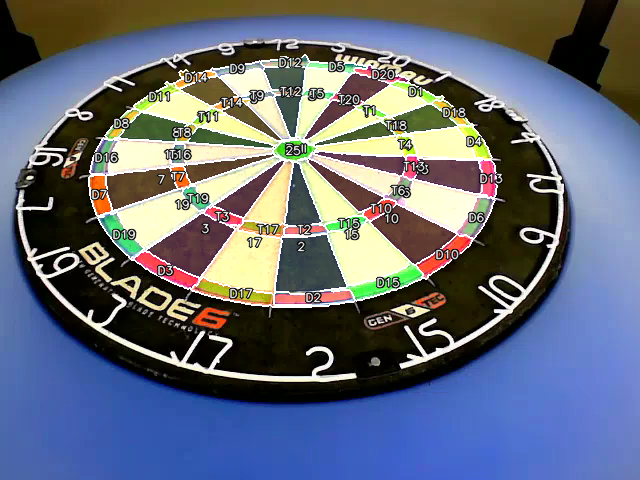
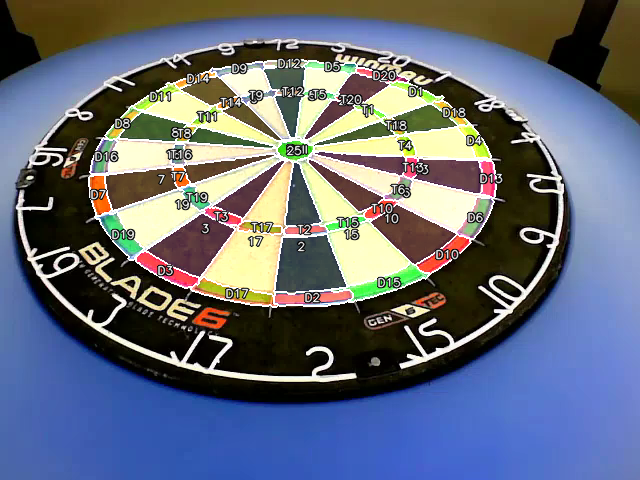
add: autotune + corrections -> 18/18 tests PASS

diff --git a/detection/tools/autocalib.cpp b/detection/tools/autocalib.cpp
@@ -46,8 +46,9 @@ struct State {
     int                     total_frames {0};
     AutoCalibrator::Options opt;
     AutoCalibrator::Result  result;
-    bool                    dirty {true};   // re-run detection
-    int                     view  {0};      // 0 overlay, 1 masks, 2 original
+    bool                    dirty    {true};   // re-run detection
+    int                     view     {0};      // 0 overlay, 1 masks, 2 original
+    bool                    tuning   {false};  // auto-tune in progress
 };
 
 void onTrackbarFrame(int pos, void* userdata)
@@ -97,7 +98,9 @@ cv::Mat render(const State& st)
                     cv::FONT_HERSHEY_SIMPLEX, 0.5, c, 1, cv::LINE_AA);
     };
 
-    if (r.ok) {
+    if (st.tuning) {
+        line(0, "AUTO-TUNE running...", {0, 200, 255});
+    } else if (r.ok) {
         line(0, "T:" + std::to_string(r.triples_found) + "/20  D:" +
                 std::to_string(r.doubles_found) + "/20  reproj:" +
                 cv::format("%.1fpx", r.mean_reproj_err_px),
@@ -109,7 +112,7 @@ cv::Mat render(const State& st)
     } else {
         line(0, "FAILED: " + r.error, {0, 0, 255});
     }
-    line(3, "a:rerun  o/p:rotate  v:view  r:reset  s:save  q:quit",
+    line(3, "a:rerun  o/p:rotate  v:view  r:reset  t:tune  s:save  q:quit",
          {200, 200, 200});
     return display;
 }
@@ -143,28 +146,31 @@ bool saveAll(const AutoCalibrator::Result& r, const std::string& yml_path,
 int main(int argc, char* argv[])
 {
     std::string input, out_yml;
-    bool        batch = false;
+    bool        batch    = false;
+    bool        autotune = false;
     int         frame_idx = 0;
     int         rotate = 0;
     cv::Point2f st_hint{-1.f, -1.f};
     for (int i = 1; i < argc; ++i) {
         const std::string a = argv[i];
-        if (a == "--batch")                   batch = true;
-        else if (a == "--frame" && i + 1 < argc) frame_idx = std::stoi(argv[++i]);
+        if (a == "--batch")                       batch    = true;
+        else if (a == "--autotune")               autotune = true;
+        else if (a == "--frame" && i + 1 < argc)  frame_idx = std::stoi(argv[++i]);
         else if (a == "--hint" && i + 2 < argc) {
             st_hint.x = std::stof(argv[++i]);
             st_hint.y = std::stof(argv[++i]);
         }
         else if (a == "--rotate" && i + 1 < argc) rotate = std::stoi(argv[++i]);
-        else if (input.empty())               input = a;
-        else if (out_yml.empty())             out_yml = a;
+        else if (input.empty())                   input = a;
+        else if (out_yml.empty())                 out_yml = a;
     }
     if (input.empty() || out_yml.empty()) {
         std::cerr << "Usage: " << argv[0]
                   << " <video|image> <out_calib.yml> [--batch] [--frame N]"
-                  << " [--hint X Y] [--rotate K]\n"
-                  << "  --hint X Y  pixel inside sector 20 (orientation)\n"
-                  << "  --rotate K  rotate sector assignment by K\n";
+                  << " [--hint X Y] [--rotate K] [--autotune]\n"
+                  << "  --hint X Y   pixel inside sector 20 (orientation)\n"
+                  << "  --rotate K   rotate sector assignment by K\n"
+                  << "  --autotune   sweep colour thresholds for best result\n";
         return 1;
     }
 
@@ -191,6 +197,13 @@ int main(int argc, char* argv[])
     const AutoCalibrator calibrator;
 
     if (batch) {
+        if (autotune) {
+            std::cout << "[autocalib] auto-tuning colour thresholds...\n";
+            st.opt = calibrator.tune(st.base_frame, st.opt);
+            std::cout << "[autocalib] best params: red_a=" << st.opt.red_a_delta
+                      << " green_a=" << st.opt.green_a_delta
+                      << " chroma=" << st.opt.min_chroma << '\n';
+        }
         st.result = calibrator.run(st.base_frame, st.opt);
         if (!st.result.ok) {
             std::cerr << "[autocalib] FAILED: " << st.result.error << '\n';
@@ -220,15 +233,18 @@ int main(int argc, char* argv[])
                            std::max(1, st.total_frames - 1),
                            onTrackbarFrame, &st);
     // Colour threshold tuning, for tricky lighting.
-    cv::createTrackbar("red a*",  WINDOW, nullptr, 60, onTrackbarThresh, &st);
+    cv::createTrackbar("red a*",   WINDOW, nullptr, 60, onTrackbarThresh, &st);
     cv::createTrackbar("green a*", WINDOW, nullptr, 60, onTrackbarThresh, &st);
+    cv::createTrackbar("chroma",   WINDOW, nullptr, 60, onTrackbarThresh, &st);
     cv::setTrackbarPos("red a*",   WINDOW, st.opt.red_a_delta);
     cv::setTrackbarPos("green a*", WINDOW, st.opt.green_a_delta);
+    cv::setTrackbarPos("chroma",   WINDOW, st.opt.min_chroma);
 
     while (true) {
-        if (st.dirty) {
+        if (st.dirty && !st.tuning) {
             st.opt.red_a_delta   = std::max(4, cv::getTrackbarPos("red a*",   WINDOW));
             st.opt.green_a_delta = std::max(4, cv::getTrackbarPos("green a*", WINDOW));
+            st.opt.min_chroma    = std::max(6, cv::getTrackbarPos("chroma",   WINDOW));
             st.result = calibrator.run(st.base_frame, st.opt);
             st.dirty  = false;
             if (!st.result.ok)
@@ -246,6 +262,21 @@ int main(int argc, char* argv[])
             st.opt.sector20_offset = 0;
             st.opt.sector20_hint   = {-1.f, -1.f};
             st.dirty = true;
+        }
+        if (key == 't') {
+            st.tuning = true;
+            cv::imshow(WINDOW, render(st));
+            cv::waitKey(1);
+            std::cout << "[autocalib] auto-tuning colour thresholds...\n";
+            st.opt = calibrator.tune(st.base_frame, st.opt);
+            std::cout << "[autocalib] best: red_a=" << st.opt.red_a_delta
+                      << " green_a=" << st.opt.green_a_delta
+                      << " chroma=" << st.opt.min_chroma << '\n';
+            cv::setTrackbarPos("red a*",   WINDOW, st.opt.red_a_delta);
+            cv::setTrackbarPos("green a*", WINDOW, st.opt.green_a_delta);
+            cv::setTrackbarPos("chroma",   WINDOW, st.opt.min_chroma);
+            st.tuning = false;
+            st.dirty  = true;
         }
         if (key == 's') {
             if (!st.result.ok) {

diff --git a/detection/src/AutoCalibrator.cpp b/detection/src/AutoCalibrator.cpp
@@ -679,4 +679,50 @@ AutoCalibrator::Result AutoCalibrator::run(const cv::Mat& frame_bgr,
     return res;
 }
 
+AutoCalibrator::Options AutoCalibrator::tune(const cv::Mat& frame_bgr,
+                                             const Options& base) const
+{
+    const auto score = [](const Result& r) -> double {
+        if (!r.ok) return -1e9;
+        return (r.triples_found + r.doubles_found) * 10.0
+               - static_cast<double>(r.mean_reproj_err_px) * 2.0;
+    };
+
+    Options best = base;
+    double  best_s = score(run(frame_bgr, base));
+
+    // Coarse sweep: ~9×9×5 = 405 calls.
+    for (int ra = 8; ra <= 40; ra += 4) {
+        for (int ga = 6; ga <= 36; ga += 4) {
+            for (int mc = 10; mc <= 28; mc += 4) {
+                Options o    = base;
+                o.red_a_delta   = ra;
+                o.green_a_delta = ga;
+                o.min_chroma    = mc;
+                const double s = score(run(frame_bgr, o));
+                if (s > best_s) { best_s = s; best = o; }
+            }
+        }
+    }
+
+    // Fine sweep ±3 around the coarse winner.
+    const int ra0 = best.red_a_delta;
+    const int ga0 = best.green_a_delta;
+    const int mc0 = best.min_chroma;
+    for (int dra = -3; dra <= 3; ++dra) {
+        for (int dga = -3; dga <= 3; ++dga) {
+            for (int dmc = -2; dmc <= 2; ++dmc) {
+                Options o    = best;
+                o.red_a_delta   = std::max(4, ra0 + dra);
+                o.green_a_delta = std::max(4, ga0 + dga);
+                o.min_chroma    = std::max(6, mc0 + dmc);
+                const double s = score(run(frame_bgr, o));
+                if (s > best_s) { best_s = s; best = o; }
+            }
+        }
+    }
+
+    return best;
+}
+
 } // namespace camdetect

diff --git a/detection/include/camdetect/AutoCalibrator.hpp b/detection/include/camdetect/AutoCalibrator.hpp
@@ -39,6 +39,7 @@ public:
         /// Optional pixel the user clicked anywhere inside sector 20.
         /// (-1,-1) = unset, use auto orientation.
         cv::Point2f sector20_hint {-1.f, -1.f};
+
     };
 
     struct Result {
@@ -58,6 +59,12 @@ public:
 
     Result run(const cv::Mat& frame_bgr, const Options& opt) const;
     Result run(const cv::Mat& frame_bgr) const { return run(frame_bgr, Options{}); }
+
+    /// Sweep colour-threshold parameters to maximise ring-segment count and
+    /// minimise reprojection error.  Returns the best Options found.
+    /// Keeps sector20_hint / sector20_offset / use_ocr_orientation unchanged.
+    Options tune(const cv::Mat& frame_bgr, const Options& base) const;
+    Options tune(const cv::Mat& frame_bgr) const { return tune(frame_bgr, Options{}); }
 };
 
 } // namespace camdetect
